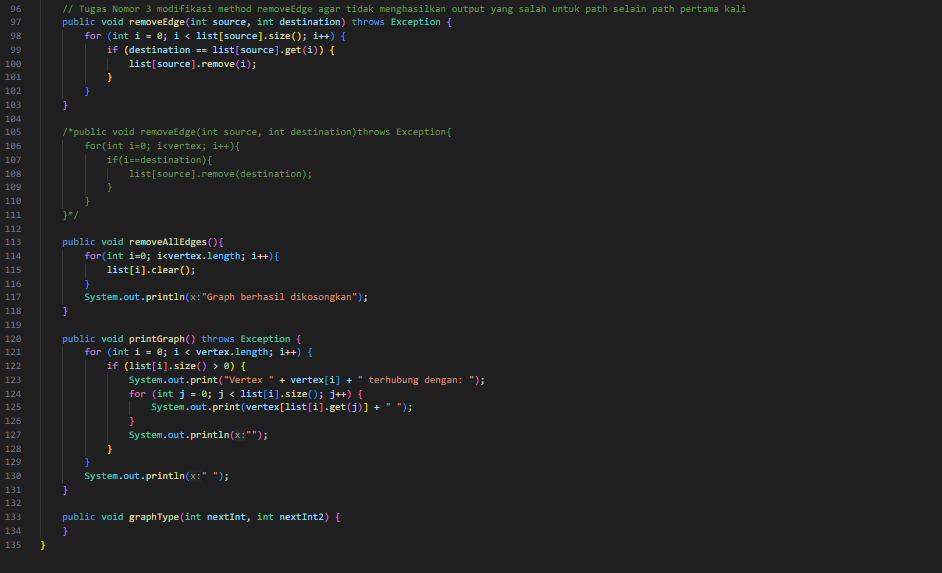
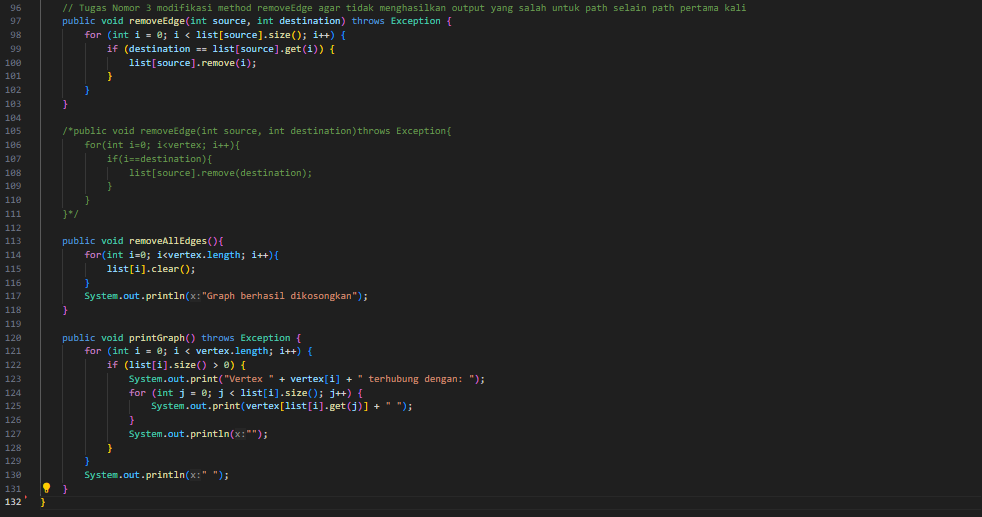
upload keduabelas

diff --git a/Pertemuan12/Praktikum1/Graph.java b/Pertemuan12/Praktikum1/Graph.java
@@ -129,7 +129,4 @@ public class Graph <T> {
         }
         System.out.println(" ");
     }    
-
-    public void graphType(int nextInt, int nextInt2) {
-    }
 }
